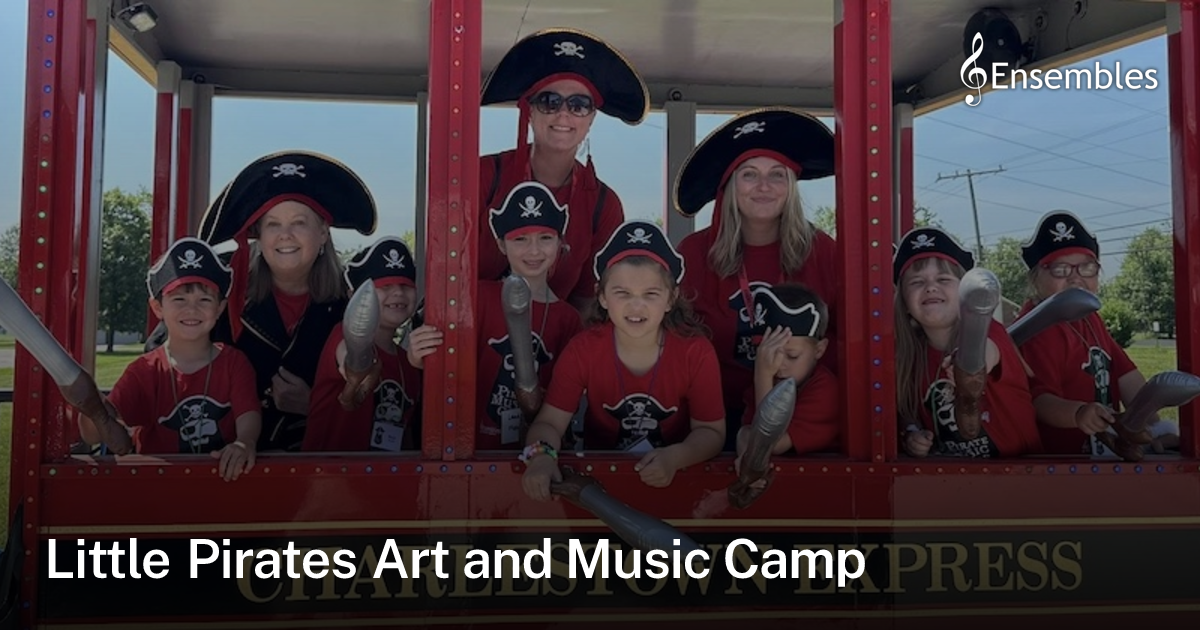
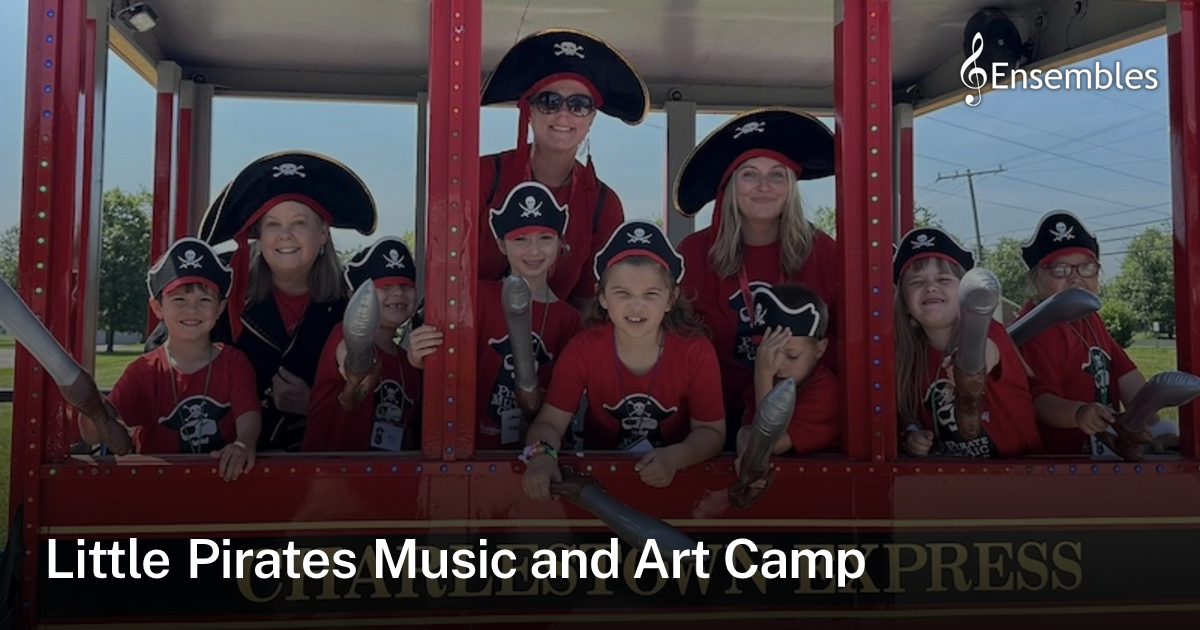
clean up pre-registration error

Changed region(s): [[0.3083, 0.8444, 0.5858, 0.9349]]

diff --git a/src/pages/api/registration-student.ts b/src/pages/api/registration-student.ts
@@ -58,12 +58,14 @@ export const POST: APIRoute = async ({ request }) => {
       a => a.id.toLowerCase() === String(activityId).toLowerCase()
     );
     if (!activityEntry) {
+      // Use 400 (not 404): Netlify serves the HTML 404 page for status 404,
+      // which hides the JSON body from the registration form.
       return new Response(
         JSON.stringify({
-          message: 'Activity not found',
+          message: `Activity not found: ${activityId}`,
         }),
         {
-          status: 404,
+          status: 400,
           headers: {
             'Content-Type': 'application/json',
           },
@@ -183,10 +185,11 @@ export const POST: APIRoute = async ({ request }) => {
           )
         ) {
           client.release();
+          const className = activityEntry.data.name;
+          const studentName = `${firstName} ${lastName}`.trim();
           return new Response(
             JSON.stringify({
-              message:
-                'Pre-registration is only available for students currently enrolled in this class.',
+              message: `Pre-registration for ${className} is not available for ${studentName} because they are not currently enrolled in ${className}`,
             }),
             {
               status: 403,

diff --git a/e2e/preregistration.spec.ts b/e2e/preregistration.spec.ts
@@ -86,7 +86,9 @@ test.describe('class pre-registration', () => {
     await submitStudentForm(page, UPCOMING_CLASS, person.student);
 
     const message = page.locator('#registration-form #form-message');
-    await expect(message).toContainText(/currently enrolled in this class/i);
+    await expect(message).toHaveText(
+      `Pre-registration for Guitar 1 is not available for ${person.student.firstName} ${person.student.lastName} because they are not currently enrolled in Guitar 1`
+    );
     await expect(page).toHaveURL(new RegExp(`/register/${UPCOMING_CLASS}`));
   });
 
@@ -109,7 +111,9 @@ test.describe('class pre-registration', () => {
     await submitStudentForm(page, UPCOMING_OTHER_CLASS, person.student);
 
     const message = page.locator('#registration-form #form-message');
-    await expect(message).toContainText(/currently enrolled in this class/i);
+    await expect(message).toHaveText(
+      `Pre-registration for Beginning Piano (4pm) is not available for ${person.student.firstName} ${person.student.lastName} because they are not currently enrolled in Beginning Piano (4pm)`
+    );
     await expect(page).toHaveURL(
       new RegExp(`/register/${UPCOMING_OTHER_CLASS}`)
     );
